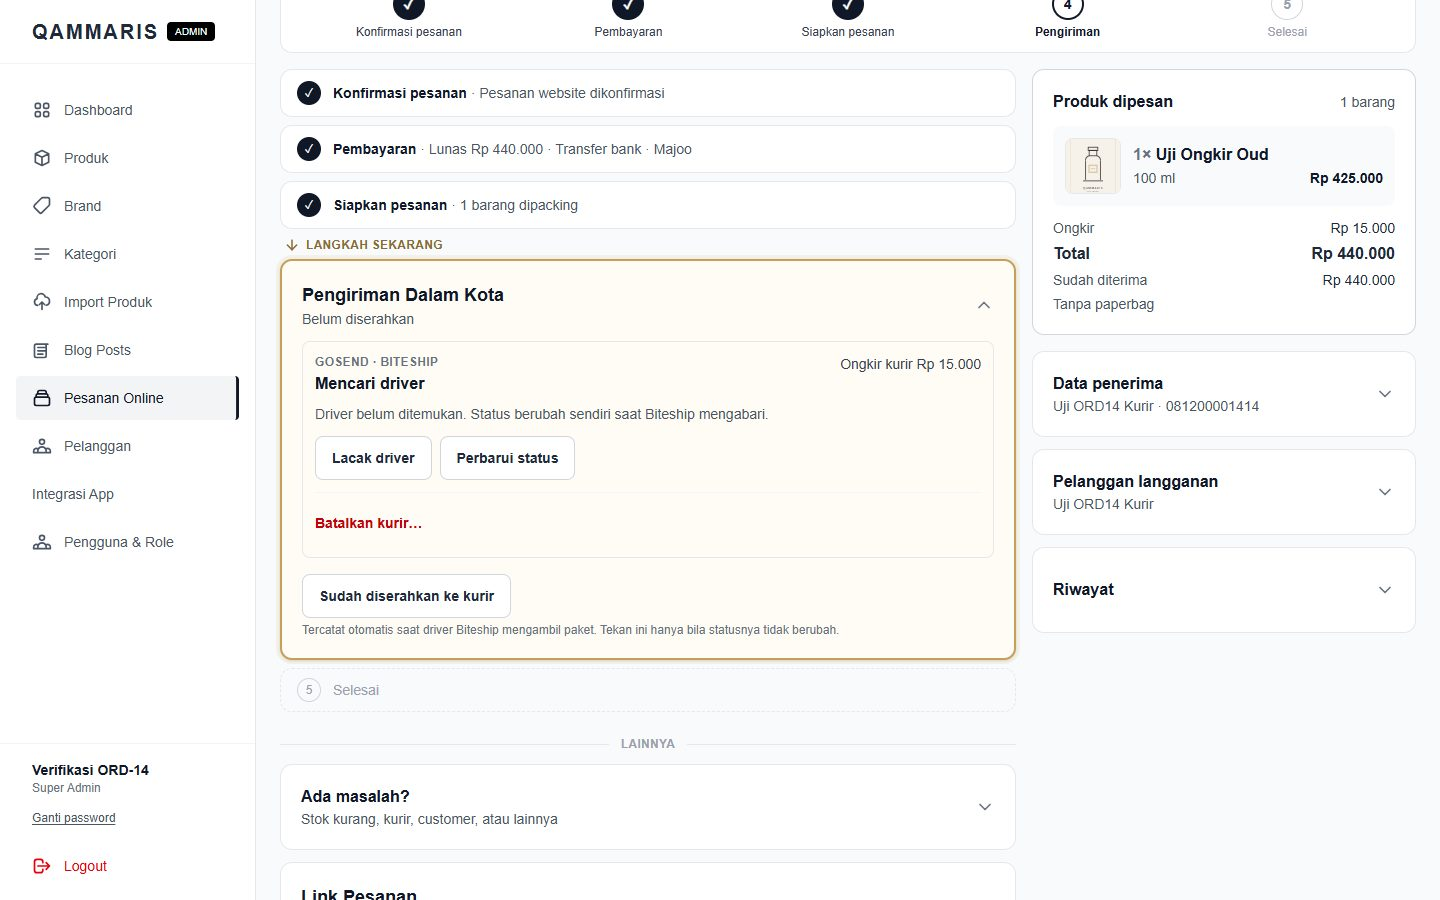
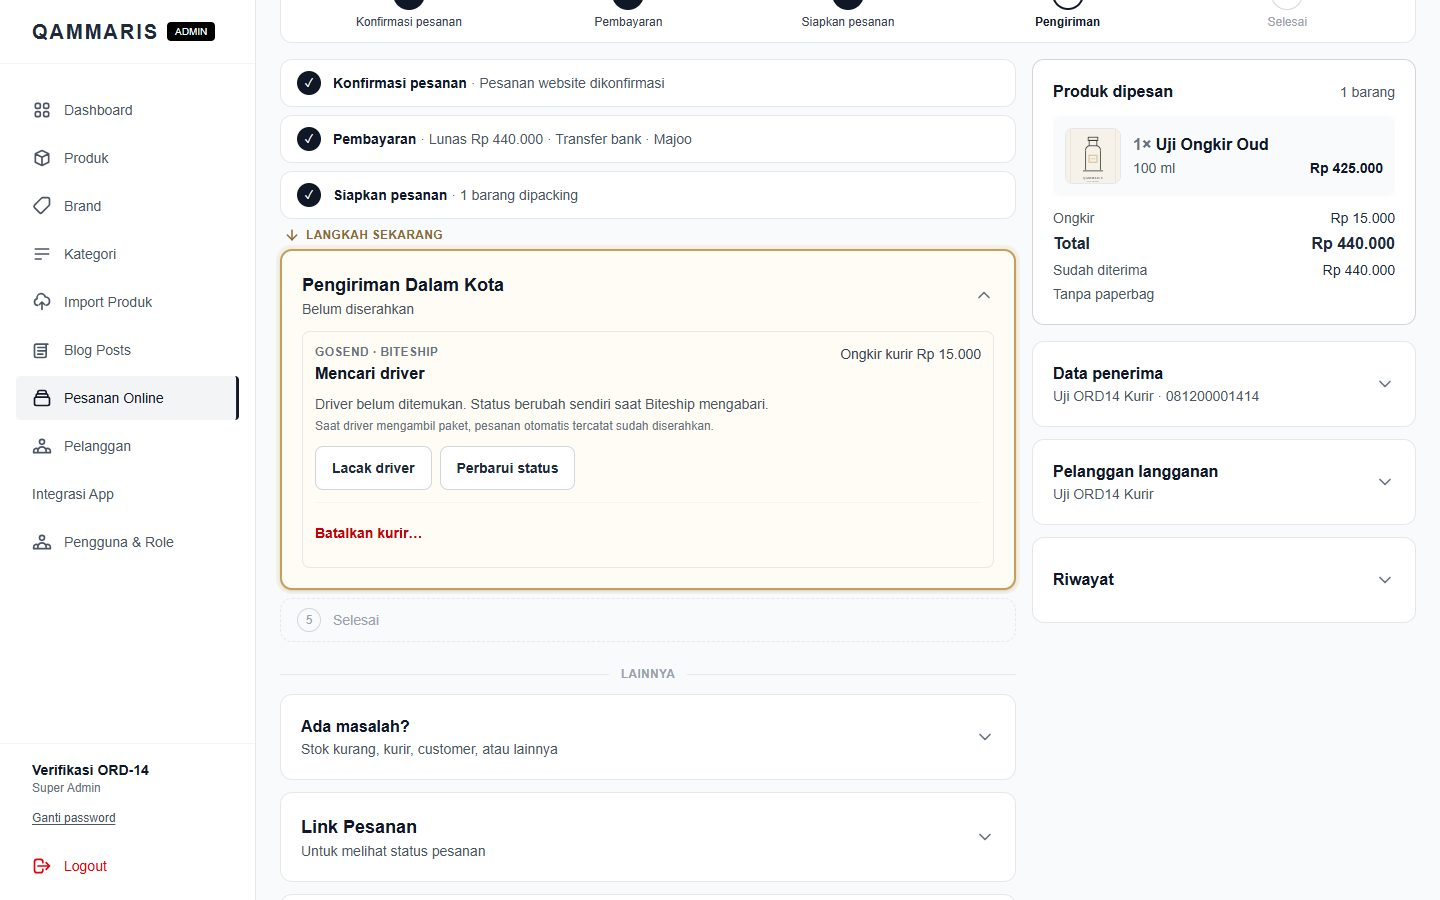
fix(orders): no manual handover or received button for a Biteship courier (ORD-14)
Owner review: the driver's pickup is the handover and Biteship's delivered
status marks it received, so "Sudah diserahkan ke kurir" and "Tandai
diterima customer" are hidden while a Biteship courier is booked (and the
handover waits until staff choose Biteship or the manual path). The status
card says what happens by itself. Runbook explains Update Status in the
Biteship test dashboard; verified with the Owner's QAM-0022 pickup.

diff --git a/tests/Feature/BiteshipCourierBookingTest.php b/tests/Feature/BiteshipCourierBookingTest.php
@@ -50,7 +50,9 @@ class BiteshipCourierBookingTest extends TestCase
         $order = $this->packed($this->instantOrder());
         $page = $this->actingAs($this->staff)->get(route('admin.orders.show', $order))->assertOk();
         $page->assertSee('data-biteship-book', false)->assertSee('Pesan kurir sekarang')->assertSee('Customer memilih GoSend')
-            ->assertSee('Pesan manual di aplikasi kurir')->assertSee('value="gojek" checked', false);
+            ->assertSee('Pesan manual di aplikasi kurir')->assertSee('value="gojek" checked', false)
+            // Owner 2026-11-11: no manual handover while staff have not chosen the manual path.
+            ->assertDontSee('data-handover-form', false);
 
         $this->answer('POST /v1/orders', $this->biteshipOrder('confirmed'));
         $this->bookCourier($order, 'gojek')->assertSessionHas('order_notice.type', 'success');
@@ -76,7 +78,9 @@ class BiteshipCourierBookingTest extends TestCase
         $order->refresh();
         $this->assertSame([$revision, 'allocated', 'Budi Kurir'], [$order->revision, $order->courier_booking['status'], $order->courier_booking['driver_name']]);
         $this->get(route('admin.orders.show', $order))->assertSee('Driver ditemukan')->assertSee('Budi Kurir')->assertSee('DN 1234 AB')
-            ->assertSee('data-biteship-track', false)->assertSee('Batalkan kurir')->assertDontSee('data-biteship-book', false);
+            ->assertSee('data-biteship-track', false)->assertSee('Batalkan kurir')->assertDontSee('data-biteship-book', false)
+            // The driver's pickup is the handover: no manual button, only the note.
+            ->assertDontSee('data-handover-form', false)->assertSee('Saat driver mengambil paket, pesanan otomatis tercatat sudah diserahkan.');
         $this->get(route('orders.customer.show', $order->customer_token_encrypted))->assertOk()
             ->assertSee('data-customer-courier="allocated"', false)->assertSee('Driver menuju toko untuk mengambil pesanan')->assertSee('Budi Kurir')
             ->assertSee('https://track.example.test/bs_order_1', false)->assertDontSee('081200000000')
@@ -93,7 +97,9 @@ class BiteshipCourierBookingTest extends TestCase
         $event = $order->events()->reorder('id', 'desc')->first();
         $this->assertSame(['handed_over', 'system', 'Biteship (otomatis)'], [$event->kind, $event->actor_type, $event->actorLabel()]);
         $this->assertStringContainsString('Diambil driver GoSend · ongkir kurir Rp21.000 · saldo Biteship (otomatis)', $event->note);
-        $this->get(route('admin.orders.show', $order))->assertSee('saldo Biteship (Owner)')->assertSee('Paket diambil driver')->assertDontSee('Batalkan kurir');
+        $this->get(route('admin.orders.show', $order))->assertSee('saldo Biteship (Owner)')->assertSee('Paket diambil driver')->assertDontSee('Batalkan kurir')
+            // Received also comes from Biteship: no manual "Tandai diterima customer" for this courier.
+            ->assertDontSee('data-delivery-form', false)->assertSee('Saat paket sampai, pesanan otomatis tercatat diterima customer.');
 
         $this->answer('GET /v1/orders/bs_order_1', $this->biteshipOrder('delivered'));
         $this->webhook(['order_id' => 'bs_order_1', 'status' => 'delivered'])->assertOk();
@@ -171,8 +177,14 @@ class BiteshipCourierBookingTest extends TestCase
         // An order made by staff has no pin: only the manual booking.
         $manual = $this->packed($this->paidV2Order('local_delivery'));
         $this->get(route('admin.orders.show', $manual))->assertDontSee('data-biteship-book', false)->assertSee('data-courier-booking', false)
-            ->assertDontSee('Pesan manual di aplikasi kurir');
+            ->assertDontSee('Pesan manual di aplikasi kurir')->assertSee('data-handover-form', false);
         $this->bookCourier($manual, 'gojek')->assertSessionHas('order_notice.type', 'error');
+
+        // Booked by hand instead (the "Pesan manual" path): the handover button is back for that courier.
+        $byHand = $this->packed($this->instantOrder());
+        $this->post(route('admin.orders.v2.courier', $byHand), ['revision' => $byHand->fresh()->revision, 'provider' => 'gosend', 'status' => 'requested',
+            'cost_amount' => '15000', 'cost_payer' => 'cashier'])->assertSessionHas('order_notice.type', 'success');
+        $this->get(route('admin.orders.show', $byHand))->assertSee('data-handover-form', false)->assertDontSee('data-biteship-book', false);
 
         // Switched off: the manual form only, and nothing is sent to Biteship.
         config(['orders.shipping_quotes.enabled' => false]);

diff --git a/resources/views/admin/orders/v2/sections/pengiriman.blade.php b/resources/views/admin/orders/v2/sections/pengiriman.blade.php
@@ -44,8 +44,9 @@
                 <button class="{{ $secondary }}" data-busy-label="Menyimpan…">Simpan resi</button>
             </form>
         @endif
-        @if ($order->fulfillment !== 'pickup' && $order->delivery_status !== 'delivered' && $order->lifecycle !== 'cancelled')
-            <form method="POST" action="{{ route('admin.orders.v2.delivery', $order) }}" class="mt-3">
+        {{-- ORD-14: a Biteship delivery is marked received by Biteship's own status. --}}
+        @if ($order->fulfillment !== 'pickup' && $order->delivery_status !== 'delivered' && $order->lifecycle !== 'cancelled' && ! $biteshipActive)
+            <form method="POST" action="{{ route('admin.orders.v2.delivery', $order) }}" class="mt-3" data-delivery-form>
                 @csrf {!! $hidden('pengiriman') !!}
                 <button class="{{ $secondary }} w-full sm:w-auto" data-busy-label="Menyimpan…">Tandai diterima customer</button>
             </form>
@@ -98,14 +99,16 @@
                 {{-- ORD-08 (Owner 2026-10-17): no "Kurir tiba" step; booked → handed over. --}}
                 <p class="mt-3 text-sm text-gray-700" data-courier-booked>Kurir {{ OnlineOrderLabels::PROVIDERS[$order->courier_provider] ?? '' }} sudah dipesan.</p>
             @endif
-            <form method="POST" action="{{ route('admin.orders.v2.handover', $order) }}" class="mt-4" data-confirm="Pesanan sudah diserahkan ke kurir?">
-                @csrf {!! $hidden('pengiriman') !!}
-                <input type="hidden" name="handed_to" value="{{ $order->courier_booking_responsibility === 'customer' ? 'customer_courier' : 'courier' }}">
-                {{-- ORD-14: with Biteship the pickup is recorded by itself; the manual handover stays as a quiet fallback. --}}
-                <button class="{{ $biteshipActive || $biteshipReady ? $secondary.' w-full sm:w-auto' : $primary }}" @disabled($notPacked) data-busy-label="Menyimpan…">Sudah diserahkan ke kurir</button>
-                @if ($notPacked)<p class="mt-1 text-xs text-gray-500">Konfirmasi packing dulu.</p>@endif
-                @if ($biteshipActive)<p class="mt-1 text-xs text-gray-500" data-handover-fallback>Tercatat otomatis saat driver Biteship mengambil paket. Tekan ini hanya bila statusnya tidak berubah.</p>@endif
-            </form>
+            {{-- ORD-14 (Owner 2026-11-11): a Biteship driver's pickup is the handover, recorded by itself; the button is only
+                 for a courier booked by hand, so it waits until staff choose that path. --}}
+            @unless ($biteshipActive || ($biteshipReady && $order->courier_status === 'unassigned'))
+                <form method="POST" action="{{ route('admin.orders.v2.handover', $order) }}" class="mt-4" data-confirm="Pesanan sudah diserahkan ke kurir?" data-handover-form>
+                    @csrf {!! $hidden('pengiriman') !!}
+                    <input type="hidden" name="handed_to" value="{{ $order->courier_booking_responsibility === 'customer' ? 'customer_courier' : 'courier' }}">
+                    <button class="{{ $primary }}" @disabled($notPacked) data-busy-label="Menyimpan…">Sudah diserahkan ke kurir</button>
+                    @if ($notPacked)<p class="mt-1 text-xs text-gray-500">Konfirmasi packing dulu.</p>@endif
+                </form>
+            @endunless
         @endif
     @elseif ($order->fulfillment === 'intercity' && $active)
         <form method="POST" action="{{ route('admin.orders.v2.jnt', $order) }}" class="mt-3" @if ($jntWaiting) data-confirm="Paket sudah diambil J&T? Ini sekaligus mencatat penyerahan." @endif>

diff --git a/resources/views/admin/orders/v2/_biteship.blade.php b/resources/views/admin/orders/v2/_biteship.blade.php
@@ -28,6 +28,7 @@
         @else
             <p class="mt-2 text-sm text-gray-600">Driver belum ditemukan. Status berubah sendiri saat Biteship mengabari.</p>
         @endif
+        <p class="mt-1 text-xs text-gray-500" data-biteship-handover-note>{{ $pending ? 'Saat driver mengambil paket, pesanan otomatis tercatat sudah diserahkan.' : 'Saat paket sampai, pesanan otomatis tercatat diterima customer.' }}</p>
         <div class="mt-3 flex flex-wrap gap-2">
             @if (! empty($booking['link']))<a href="{{ $booking['link'] }}" target="_blank" rel="noopener noreferrer" class="{{ $secondary }}" data-biteship-track>Lacak driver</a>@endif
             <form method="POST" action="{{ route('admin.orders.v2.biteship.refresh', $order) }}">

diff --git a/docs/verification/ord-14/README.md b/docs/verification/ord-14/README.md
@@ -4,7 +4,7 @@ Branch `ongkir-otomatis`, local server `127.0.0.1:8010`, local SQLite, the Owner
 
 ## Automated
 
-- `tests/Feature/BiteshipCourierBookingTest.php` (7 tests, 96 assertions, Biteship faked):
+- `tests/Feature/BiteshipCourierBookingTest.php` (7 tests, 106 assertions, Biteship faked):
   - booking sends the customer's courier, `courier_type=instant`, `reference_id=<code>-1`, the checkout pin and 800 g per item; a second click books nothing;
   - webhook `allocated` saves the driver quietly (same revision) and shows it to staff and the customer (no driver phone, no Sharelok request); `picked` = handover + cost `owner_fund` Rp21.000 reported by "Biteship", event by "Biteship (otomatis)"; `delivered` = received; one cost only;
   - a refusal shows Biteship's reason, keeps the step free, and a retry is attempt 2 (`-2`);
@@ -26,7 +26,7 @@ Branch `ongkir-otomatis`, local server `127.0.0.1:8010`, local SQLite, the Owner
 6. After the last UI tidy-up (switch hidden while booked, quiet handover fallback, customer's courier always preselected): cancelled again (attempt 3) and booked GoSend again; attempt 4 stays active ("Mencari driver") for the Owner's check.
 7. Webhook on the running server: empty body 200, wrong secret 404, a body claiming `allocated` for the real order → 200 and the status stayed `confirmed` (the body is never trusted; the order is re-read).
 
-Not done: moving the test order to later statuses in Biteship's dashboard needs a "Webhook URL (Test)" in the Owner's Biteship settings (an account setting); the later statuses are covered by the automated tests.
+Biteship dashboard (Owner's Chrome, read-only, 2026-11-11): the Owner's own test order QAM-0022-1 was "Teralokasi" in Shipping → Pesanan, and the admin read it with "Perbarui status" as "Driver ditemukan" (test driver "John Doe", plate "B 12345 ABC"). Its yellow **Update Status** button offers "Start picking up" and "Cancel"; nothing was chosen by the agent. The Owner then moved QAM-0022-1 to pickup in the dashboard; "Perbarui status" recorded the handover by "Biteship (otomatis)" and the courier cost Rp20.500 as Owner funding from the Biteship balance (no reimbursement); the order completed (paid and handed over). Delivered is covered by the automated tests.
 
 ## Screenshots
 
@@ -35,12 +35,13 @@ Not done: moving the test order to later statuses in Biteship's dashboard needs 
 | Super Admin: "Menunggu packing oleh staf toko" ([ORD-08](../ord-08/round2-owner-3-packing-by-staff.png)) | ![Super Admin packing](after-390-super-admin-packing.jpg) |
 | Manual "Kurir sudah dipesan" form only ([ORD-08](../ord-08/after-booking-form-390.png)) | ![Book through Biteship, 390](after-390-admin-biteship-book.jpg) ![1440](after-1440-admin-biteship-book.jpg) |
 | — | ![Booked, 390](after-390-admin-biteship-booked.jpg) ![1440](after-1440-admin-biteship-booked.jpg) |
+| — | ![Picked up in Biteship test mode, 390](after-390-admin-biteship-picked.jpg) (taken before "Tandai diterima customer" was hidden for Biteship) |
 | — (customer page had no courier block) | ![Customer courier](after-390-customer-courier.jpg) |
 | Website order payment card with "Salin Total & Instruksi Pembayaran" (unchanged for staff-made orders) | ![Payment card, 390](after-390-admin-payment-website.jpg) ![1440](after-1440-admin-payment-website.jpg) |
 
 ## UX notes
 
-- One primary action per state: "Pesan kurir sekarang" while unbooked; once booked, the status card leads and "Sudah diserahkan ke kurir" becomes a quiet fallback with a one-line explanation.
+- One primary action per state: "Pesan kurir sekarang" while unbooked; once booked, the status card leads. Owner review 2026-11-11: no "Sudah diserahkan ke kurir" for a Biteship driver (the pickup is the handover; the card says so), none before staff choose Biteship or the manual path, and no "Tandai diterima customer" while Biteship delivers.
 - The customer's courier is preselected and labelled "pilihan customer"; the other stays one tap away for a driver-not-found retry.
 - The "Toko / Customer" switch is hidden while a Biteship driver is booked (cancel first), so staff cannot pick a state the server refuses.
 - The customer sees plain Indonesian statuses and "Lacak driver"; the driver's phone stays with staff.

diff --git a/docs/runbooks/BITESHIP.md b/docs/runbooks/BITESHIP.md
@@ -32,7 +32,7 @@ Matikan kapan saja dengan `ORDERS_SHIPPING_QUOTES=false`: checkout kembali ke "o
 3. Cek: pesanan website kurir instan yang lunas dan dipacking menampilkan **Pesan kurir sekarang**. Setelah memesan, status "Mencari driver" dan tombol **Lacak driver** muncul; halaman customer menampilkan kurir yang sama.
 4. Saldo Biteship harus cukup untuk ongkir kurir; bila kurang, admin menampilkan alasan dari Biteship dan pesanan tidak berubah.
 
-Mode tes: kunci `biteship_test.…` membuat pesanan tes tanpa memotong saldo. Status pesanan tes bisa dimajukan dari dashboard Biteship (tombol Update Status pada pesanan bertanda WEBHOOK), yang butuh **Webhook URL (Test)** terisi; dari localhost, tombol **Perbarui status** di admin membaca status itu.
+Mode tes: kunci `biteship_test.…` membuat pesanan tes tanpa memotong saldo dan tanpa driver sungguhan (driver tes "John Doe"). Status pesanan tes dimajukan dari dashboard Biteship (Mode Testing aktif): **Shipping → Pesanan**, kolom Aksi, tombol kuning **Update Status** pada baris pesanan (misalnya `QAM-0022-1`), lalu pilih status berikutnya (Start picking up, lalu seterusnya, atau Cancel). Biteship tidak bisa mengirim webhook ke localhost, jadi setelah itu tekan **Perbarui status** di halaman pesanan admin. Dicek 2026-11-11: Teralokasi di dashboard terbaca di admin sebagai "Driver ditemukan".
 
 ## Kalau ada masalah
 
@@ -41,4 +41,4 @@ Mode tes: kunci `biteship_test.…` membuat pesanan tes tanpa memotong saldo. St
 - Pengaturan diskon, berat per produk, titik toko, dan area layanan ada di `config/orders.php` → `shipping_quotes`.
 - "Kurir belum terpesan: …": alasan dari Biteship (saldo, akun belum terverifikasi, kurir menolak). Perbaiki di dashboard, lalu tekan Pesan kurir sekarang lagi.
 - "Biteship tidak menjawab. Cek dashboard Biteship sebelum memesan ulang": jawaban tidak sampai, padahal pesanan mungkin sudah dibuat. Cari kode pesanan (misalnya `QAM-0023-1`) di dashboard Biteship sebelum memesan ulang supaya tidak dobel.
-- Status tidak berubah: webhook tidak sampai (URL/rahasia salah, server mati). Tekan **Perbarui status**; bila driver sudah membawa paket tetapi status tetap, tekan **Sudah diserahkan ke kurir**.
+- Status tidak berubah: webhook tidak sampai (URL/rahasia salah, server mati). Tekan **Perbarui status**: admin membaca status terbaru langsung dari Biteship. Untuk kurir Biteship tidak ada tombol "Sudah diserahkan ke kurir"; penyerahan tercatat dari status Biteship.

diff --git a/docs/architecture/decisions/ADR-058-admin-courier-booking-biteship.md b/docs/architecture/decisions/ADR-058-admin-courier-booking-biteship.md
@@ -20,7 +20,8 @@ Owner decisions (2026-11-11): build the admin booking before the release; J&T ke
   - after pickup, `on_hold`, returns or cancellation write an event asking staff to check and open an issue; nothing is reversed automatically.
 - **System actor.** Automatic changes use `OrderActor::biteship()` (`actor_type = system`, `source = biteship`, shown as "Biteship (otomatis)"). Only the Biteship operation accepts it (`run(..., allowSystem: true)`); every other operation still needs a person.
 - **Cancel** before pickup from the admin with a reason (`POST /v1/orders/{id}/cancel`, `cancellation_reason_code = others`); the event names the admin.
-- **The manual path stays.** "Pesan manual di aplikasi kurir" (the ORD-08 form) and "Sudah diserahkan ke kurir" remain as quiet fallbacks; orders without a pin (made by staff, J&T, pickup) are unchanged.
+- **No manual handover for a Biteship driver** (Owner 2026-11-11): the driver's pickup is the handover, so "Sudah diserahkan ke kurir" (and, after pickup, "Tandai diterima customer") is hidden while a Biteship booking is active and while the step waits for staff to choose Biteship or the manual path. A late status is caught with "Perbarui status". The server still accepts a handover (for example from the App backup path); a later Biteship pickup then only records the cost.
+- **The manual path stays.** "Pesan manual di aplikasi kurir" (the ORD-08 form); once that courier is recorded, "Sudah diserahkan ke kurir" appears as before. Orders without a pin (made by staff, J&T, pickup) are unchanged.
 - **Customer page** shows the courier, a plain status ("Mencari driver", "Driver menuju toko", "Pesanan dalam perjalanan"), the driver's name and plate, and "Lacak driver" (Biteship's tracking link). The driver's phone is shown to staff only.
 - **Payment card and packing** (same review). A website order's Pembayaran card shows the total, the customer's chosen method and "Tandai Lunas", without the copy/send instructions block (still used for orders made by staff). The packing form is shown to Super Admin too; the server already allowed it.
 

diff --git a/docs/product/BUSINESS_RULES.md b/docs/product/BUSINESS_RULES.md
@@ -303,7 +303,8 @@ Keputusan: [ADR-057](../architecture/decisions/ADR-057-checkout-shipping-quotes-
 - **Driver tidak ditemukan / dibatalkan kurir** sebelum paket diambil: langkah kurir kembali kosong dan staf bisa memesan ulang. Setelah paket diambil, status bermasalah (ditahan, dikembalikan) hanya dicatat di riwayat; staf mengecek dan mencatat kendala bila perlu.
 - **Batalkan kurir** bisa sebelum paket diambil, dengan alasan; saldo dikembalikan Biteship.
 - **Customer** melihat kurir, status singkat, nama driver dan plat, serta tombol **Lacak driver** di halaman pesanannya. Nomor HP driver hanya untuk staf.
-- **Jalur manual tetap ada:** "Pesan manual di aplikasi kurir" dan "Sudah diserahkan ke kurir". Pesanan tanpa titik dari checkout (dibuat staf), J&T, dan ambil di toko tetap seperti sebelumnya.
+- **Tidak ada tombol "Sudah diserahkan ke kurir" dan "Tandai diterima customer" untuk kurir Biteship** (Owner 2026-11-11): saat driver mengambil paket, pesanan otomatis tercatat diserahkan; saat paket sampai, tercatat diterima. Bila status terlambat, tekan Perbarui status. Customer tetap bisa menekan "Pesanan sudah saya terima" di halamannya.
+- **Jalur manual tetap ada:** "Pesan manual di aplikasi kurir"; setelah kurir manual dicatat, tombol "Sudah diserahkan ke kurir" muncul seperti biasa. Pesanan tanpa titik dari checkout (dibuat staf), J&T, dan ambil di toko tetap seperti sebelumnya.
 - **Kartu Pembayaran pesanan website** di admin hanya menampilkan total, cara bayar pilihan customer, dan Tandai Lunas; rekening dan QRIS sudah tampil di halaman pesanan customer. Pesanan buatan staf tetap punya "Salin Total & Instruksi Pembayaran".
 - **Halaman customer tidak meminta Sharelok** bila pesanan sudah punya titik lokasi (dari checkout atau diisi staf).
 
